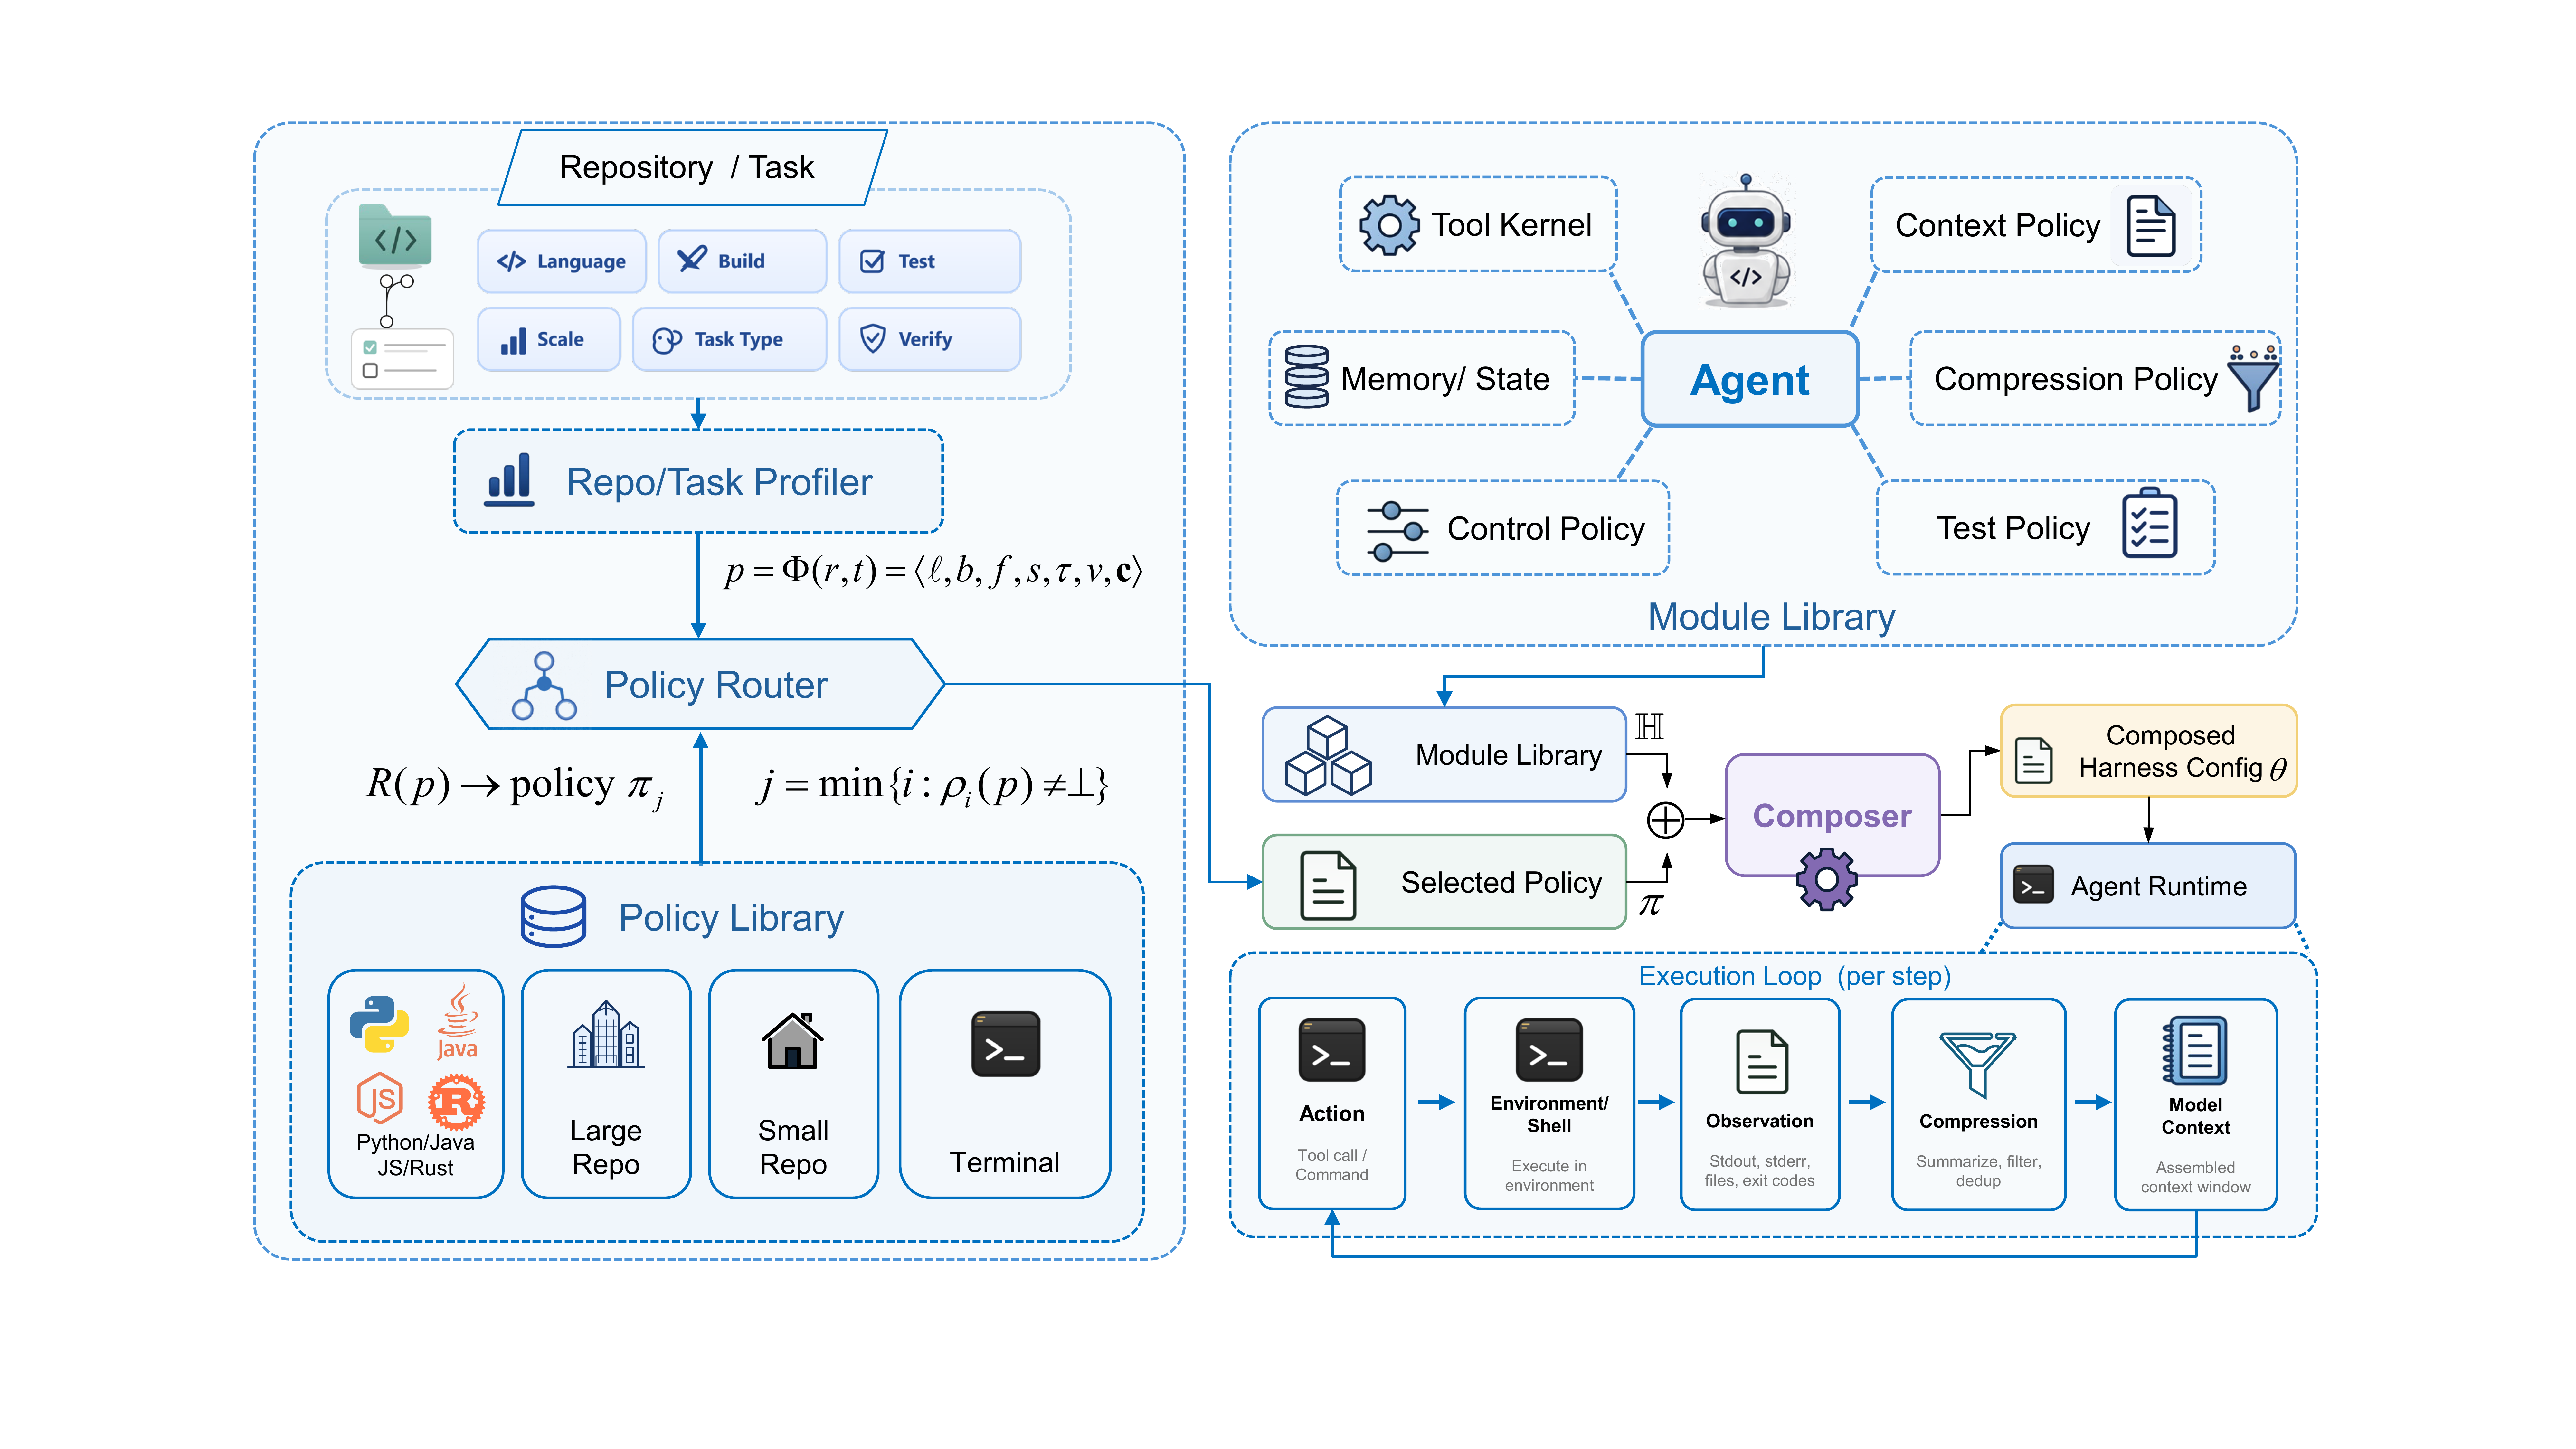
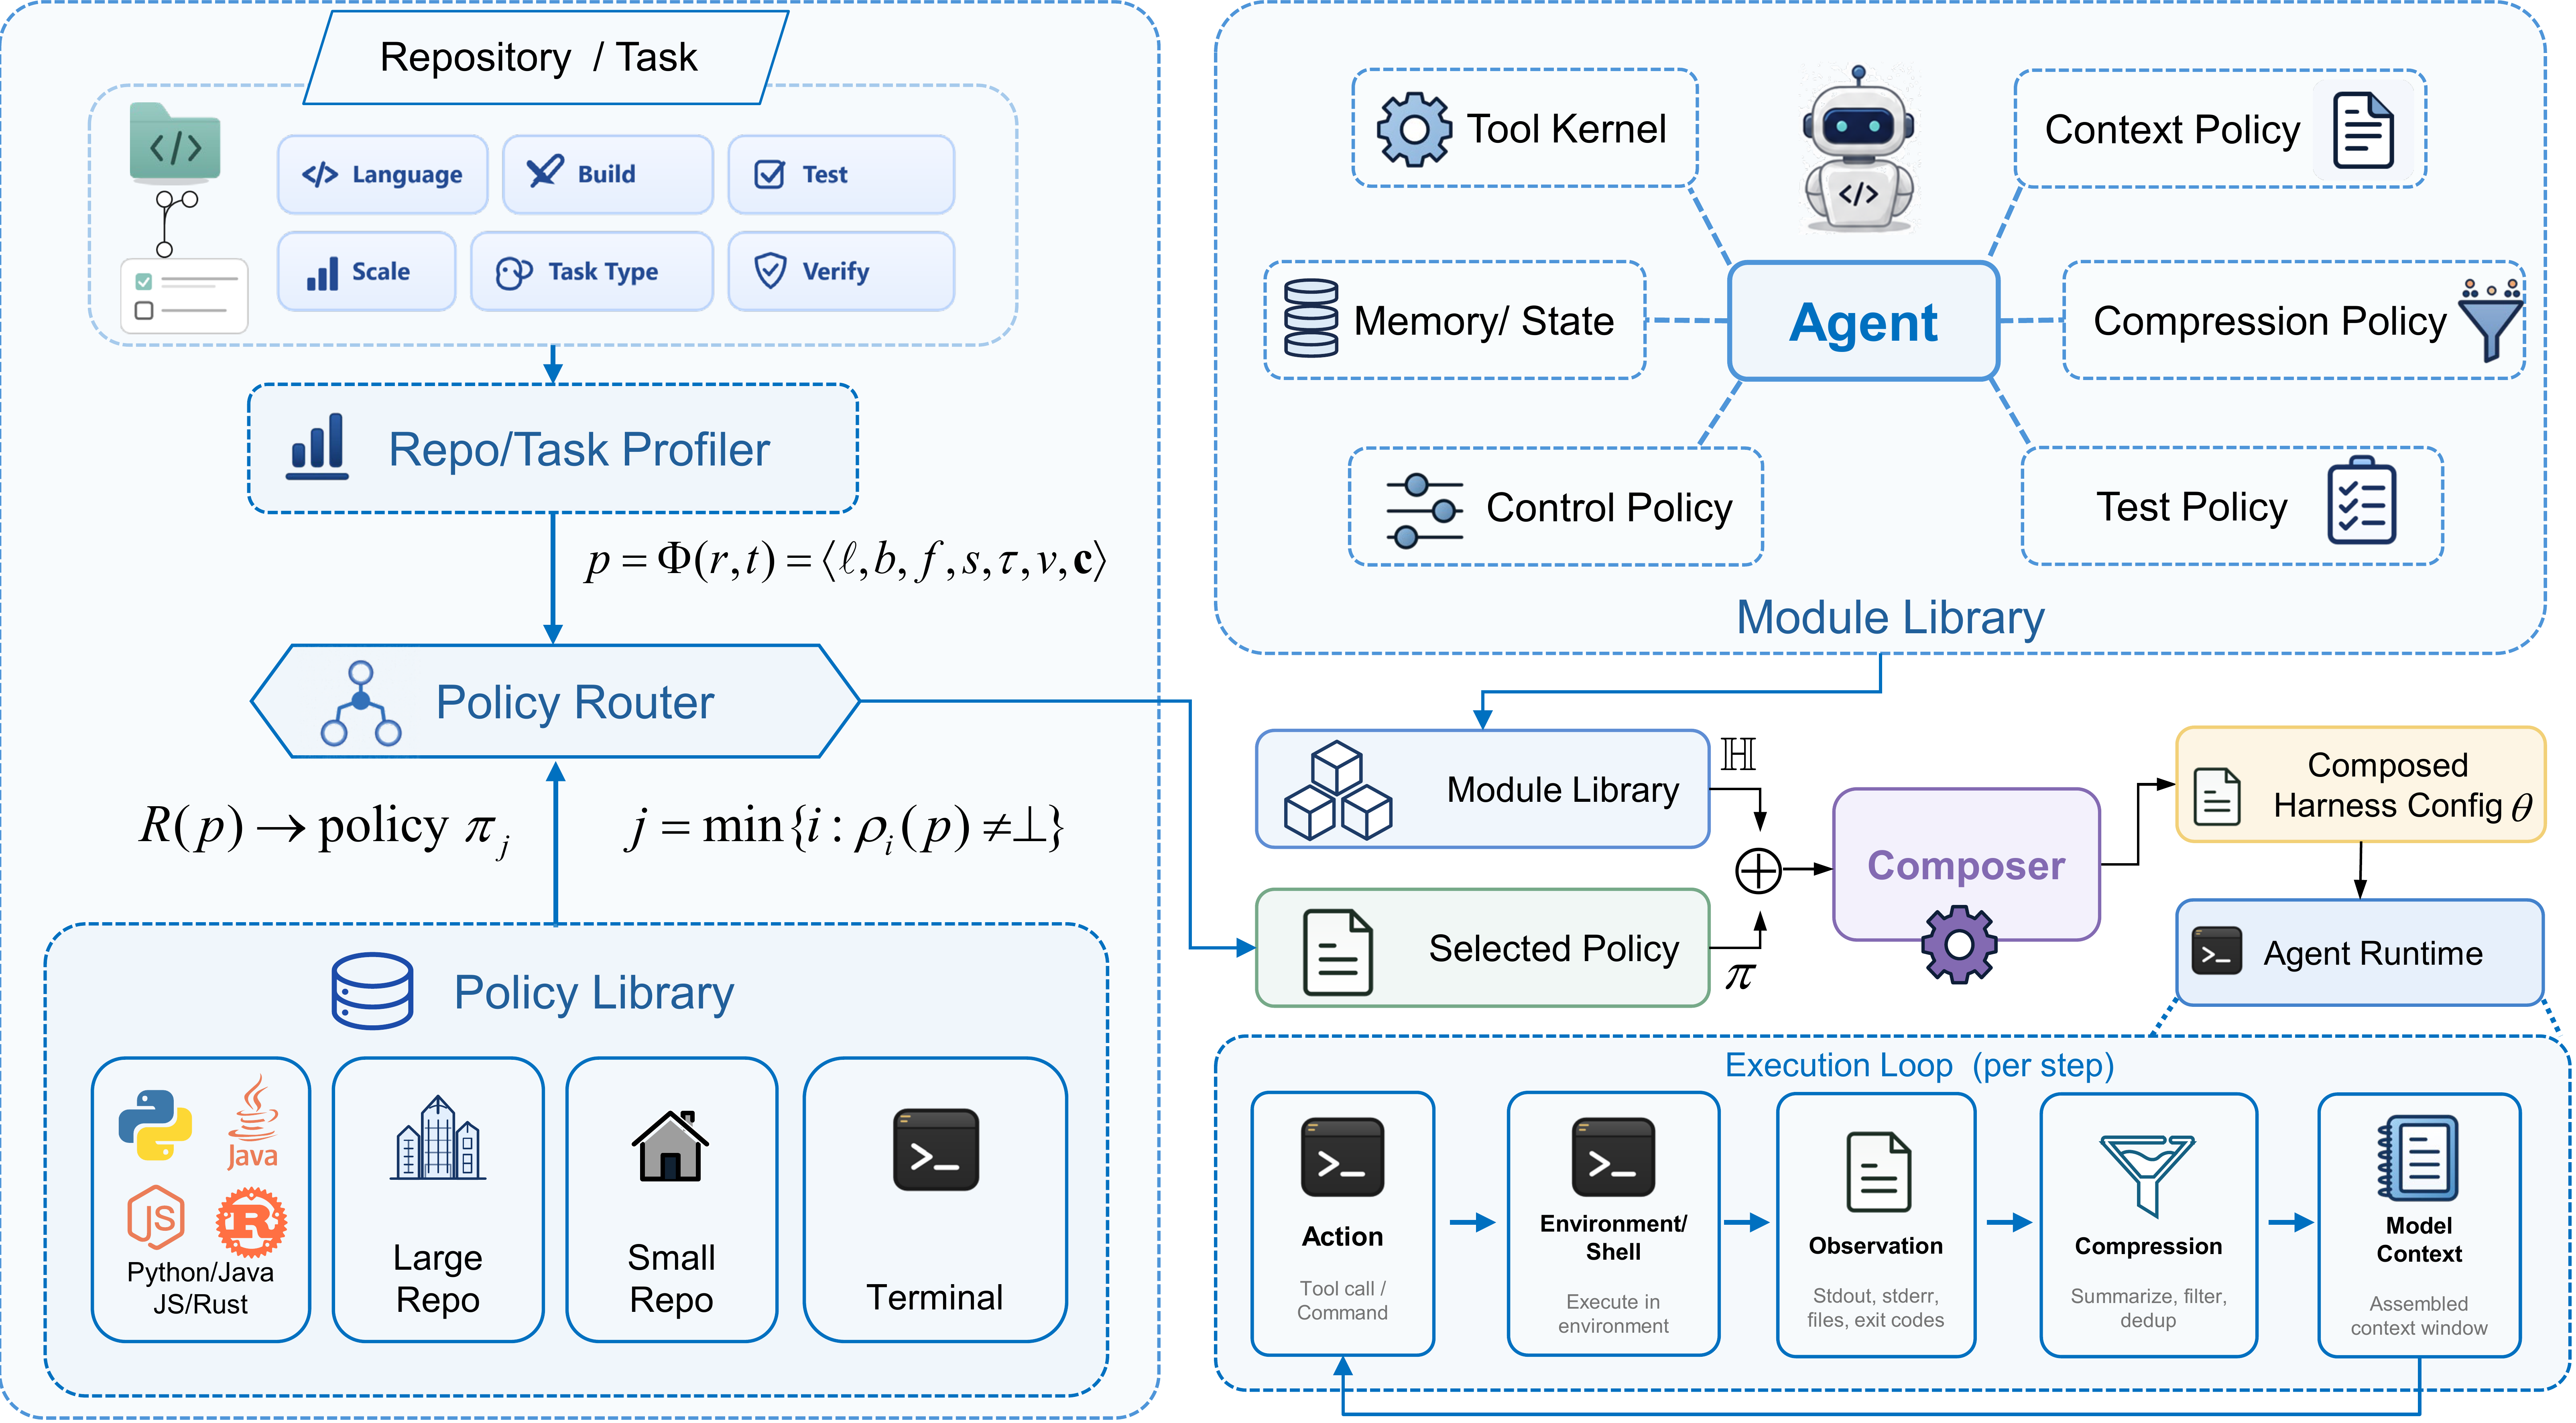
docs: anon.

diff --git a/README.md b/README.md
@@ -40,8 +40,8 @@ Harness Composer tests a narrower, auditable alternative:
 
 ## Headline Results
 
-The results below are the aggregate numbers surfaced from the accompanying EMNLP paper draft. See
-[RESULTS.md](RESULTS.md) for the full extracted result tables and figure inventory.
+The results below are aggregate evaluation numbers for the current anonymous release. See
+[RESULTS.md](RESULTS.md) for the full result tables and figure inventory.
 
 | Benchmark | Base setting | Harness Composer | Accuracy gain | Cost change |
 | --- | ---: | ---: | ---: | ---: |
@@ -141,8 +141,8 @@ src/minisweagent/harness_composer/
   runtime/           observation compression helpers
   cli.py             profile and compose commands
 tests/harness_composer/
-assets/figures/      paper figures copied as PDF and GitHub-ready PNG
-RESULTS.md           extracted result tables from the paper draft
+assets/figures/      evaluation figures as PDF and GitHub-ready PNG
+RESULTS.md           aggregate result tables for the anonymous release
 ```
 
 ## Status

diff --git a/assets/figures/README.md b/assets/figures/README.md
@@ -1,7 +1,7 @@
 # Figure Assets
 
-This directory contains paper figures copied from the EMNLP LaTeX draft and converted into
-GitHub-friendly PNG previews for the project README. PNG previews are exported at 600 DPI.
+This directory contains evaluation figures converted into GitHub-friendly PNG previews for the
+project README. PNG previews are exported at 600 DPI.
 
 | File | Description |
 | --- | --- |
@@ -9,4 +9,4 @@ GitHub-friendly PNG previews for the project README. PNG previews are exported a
 | `terminal-bench-results.pdf` / `terminal-bench-results.png` | Terminal-Bench 2 top-line results and Mini-SWE-Agent baseline comparison. |
 | `ablation-efficiency.pdf` / `ablation-efficiency.png` | Ablation and cost-efficiency analysis across Terminal-Bench 2 and SWE-bench Verified-100. |
 
-The PDF files are the source-quality paper figures. The PNG files are used for GitHub rendering.
+The PDF files are the source-quality figures. The PNG files are used for GitHub rendering.

diff --git a/RESULTS.md b/RESULTS.md
@@ -1,6 +1,6 @@
 # Harness Composer Results
 
-This document organizes the figures and aggregate result tables extracted from the EMNLP paper draft.
+This document organizes the figures and aggregate result tables for the anonymous project release.
 It is intended as the project-facing companion to the README: the README shows the headline story,
 while this file keeps the table-level evidence easy to inspect on GitHub.
 

diff --git a/docs/SECURITY.md b/docs/SECURITY.md
@@ -2,4 +2,4 @@
 
 ## Reporting a Vulnerability
 
-Please contact Kilian Lieret ([email redacted]), John Yang ([email redacted]), Carlos E. Jimenez ([email redacted]), and Ofir Press ([email redacted]).
+Please report security issues through the anonymous artifact contact channel.

diff --git a/docs/index.md b/docs/index.md
@@ -39,7 +39,7 @@ Here's some details:
 [model](https://github.com/SWE-agent/mini-swe-agent/blob/main/src/minisweagent/models/litellm_model.py), [script](https://github.com/SWE-agent/mini-swe-agent/blob/main/src/minisweagent/run/hello_world.py)) — no fancy dependencies!
 - **Performant:** Scores >74% on the [SWE-bench verified benchmark](https://www.swebench.com/) benchmark; starts faster than Claude Code
 - **Deployable:** In addition to local envs, you can use **docker**, **podman**, **singularity**, **apptainer**, and more
-- **Cutting edge:** Built by the Princeton & Stanford team behind [SWE-bench](https://swebench.com) and [SWE-agent](https://swe-agent.com).
+- **Research-oriented:** Built on the SWE-bench and SWE-agent ecosystem.
 - **Widely adopted:** In use by Meta, NVIDIA, Essential AI, Anyscale, and others
 - **Tested:** [![Codecov](https://img.shields.io/codecov/c/github/swe-agent/mini-swe-agent?style=flat-square)](https://codecov.io/gh/SWE-agent/mini-swe-agent)
 